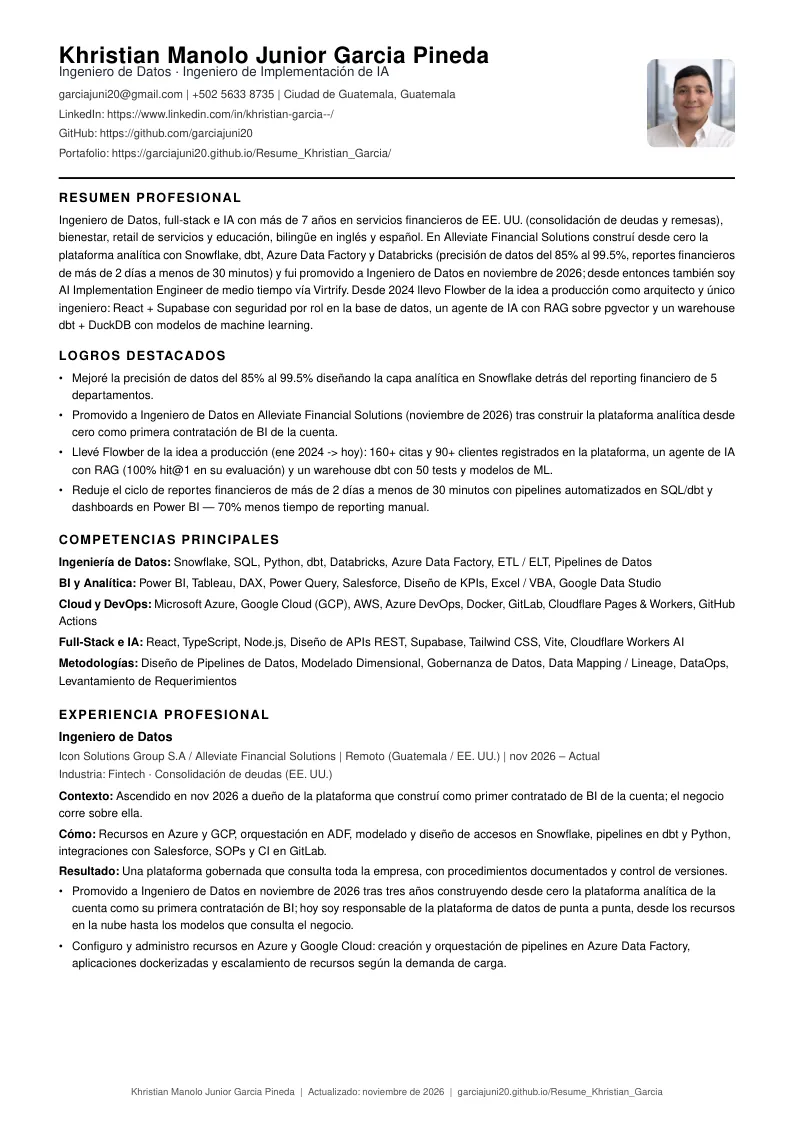
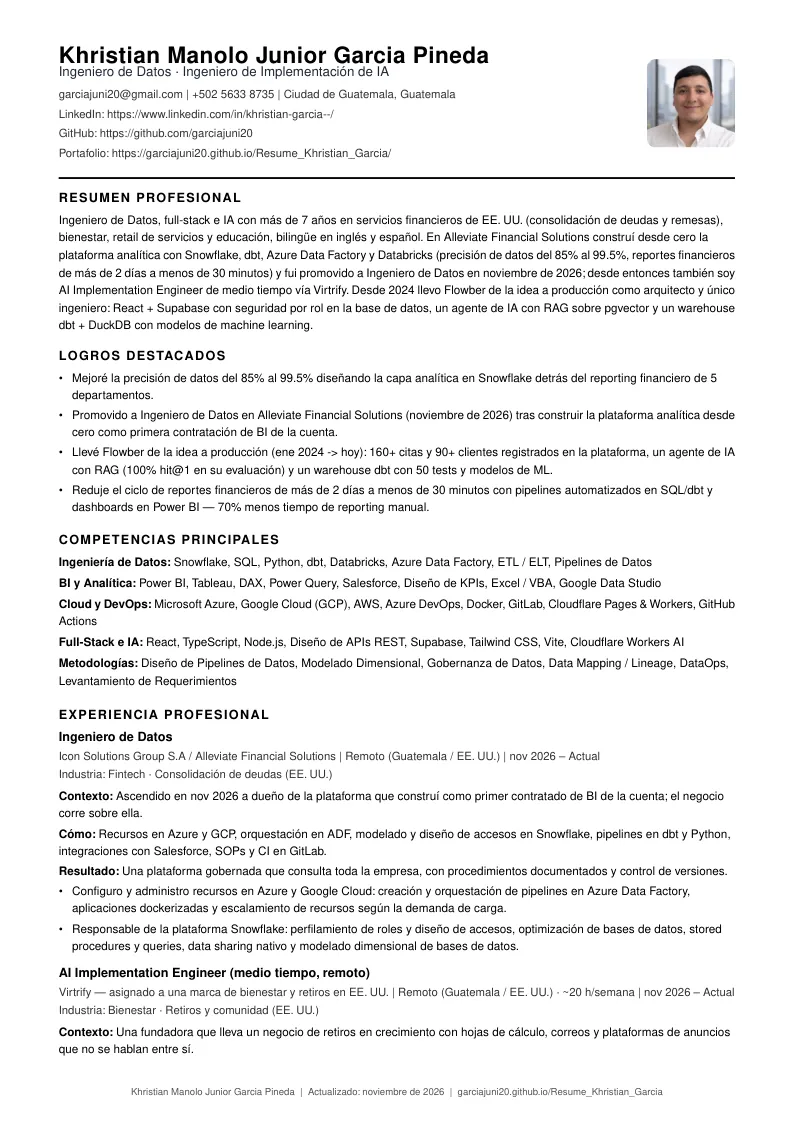
fix(cv): honest "Goal" label for planned work, measured bullets back in the ATS CV
- Approach gets `planned`: the Virtrify role (starts Nov 23, 2026) now shows
  "Goal" instead of "Result" on the site and in both PDFs
- Data Engineer: dropped the bullet that repeated the approach context
- BI Analyst bullets reordered measured-first; the ATS CV shows two of them
  again (8+ core models, 15+ dashboards, 20+ KPIs)
- NOC result line adds the 60% faster incident response already in the data
- Flowber context no longer mentions the personal relationship
- Designed PDF: wider approach label column (CONTEXTO/RESULTADO collided)

Changed region(s): [[0.0605, 0.7792, 0.9068, 0.935]]

diff --git a/src/data/profile-es.ts b/src/data/profile-es.ts
@@ -46,7 +46,6 @@ export const profileES = {
       location: "Remoto (Guatemala / EE. UU.)",
       tags: ["Ingeniería de Datos", "Snowflake", "dbt", "Databricks", "Azure Data Factory", "Azure", "GCP", "Python", "SQL", "Salesforce", "APIs REST", "Docker", "GitLab", "Modelado de Datos"],
       bullets: [
-        "Promovido a Ingeniero de Datos en noviembre de 2026 tras tres años construyendo desde cero la plataforma analítica de la cuenta como su primera contratación de BI; hoy soy responsable de la plataforma de datos de punta a punta, desde los recursos en la nube hasta los modelos que consulta el negocio.",
         "Configuro y administro recursos en Azure y Google Cloud: creación y orquestación de pipelines en Azure Data Factory, aplicaciones dockerizadas y escalamiento de recursos según la demanda de carga.",
         "Responsable de la plataforma Snowflake: perfilamiento de roles y diseño de accesos, optimización de bases de datos, stored procedures y queries, data sharing nativo y modelado dimensional de bases de datos.",
         "Implemento y administro Databricks, y construyo los flujos de datos y pipelines ETL/ELT (dbt, SQL, Python) que mueven la información entre los sistemas fuente, las bases de datos locales y en la nube y el warehouse.",
@@ -60,7 +59,8 @@ export const profileES = {
       approach: {
         context: "Una fundadora que lleva un negocio de retiros en crecimiento con hojas de cálculo, correos y plataformas de anuncios que no se hablan entre sí.",
         how: "Primero auditar el flujo de lead a venta; luego un CRM ligero, automatizaciones en n8n o Make conectadas a Stripe y calendarios, y un manual operativo en lenguaje claro.",
-        result: "Fase de construcción: flujos clave en producción en tres meses, documentados para que la fundadora los opere sin mí.",
+        result: "Fase de construcción (inicia el 23 nov 2026): flujos clave en producción en tres meses, documentados para que la fundadora los opere sin mí.",
+        planned: true,
       },
       industry: "Bienestar · Retiros y comunidad (EE. UU.)",
       company: "Virtrify — asignado a una marca de bienestar y retiros en EE. UU.",
@@ -81,7 +81,7 @@ export const profileES = {
     {
       id: "flowber-freelance",
       approach: {
-        context: "Una barbería con agenda en papel, dobles citas y sin datos; el dueño es un amigo que quería crecer.",
+        context: "Una barbería con agenda en papel, dobles citas y sin datos de su propio negocio.",
         how: "Descubrimiento con el dueño; luego una plataforma serverless React + Supabase con la seguridad en la base de datos, un agente de IA con 20 herramientas y RAG, y un warehouse dbt + DuckDB con ML.",
         result: "160+ citas y 90+ clientes en producción, RAG con 100% hit@1, LCP móvil de 4.8 s a 2.5 s.",
       },
@@ -118,10 +118,10 @@ export const profileES = {
       location: "Remoto (Guatemala / EE. UU.)",
       tags: ["Ingeniería de Datos", "Snowflake", "dbt", "Databricks", "Azure Data Factory", "Python", "SQL", "Salesforce", "Power BI", "Tableau", "Modelado de Datos", "BI"],
       bullets: [
-        "Lideré proyectos de datos de principio a fin — identificando las fuentes de datos adecuadas, asegurando que se importaran y unieran correctamente, y comunicándome directamente con stakeholders de finanzas, operaciones y estrategia en EE. UU. para planificar y entregar cada iniciativa.",
         "Diseñé la capa analítica en Snowflake y PostgreSQL: modelos dimensionales, 8+ modelos core, vistas y stored procedures consultados por los 5 departamentos del negocio — la fuente única de verdad de la empresa, que elevó la precisión de datos del 85% al 99.5%.",
         "Entregué 15+ dashboards interactivos en Power BI y Tableau y definí 20+ KPIs con stakeholders de EE. UU., reemplazando procesos manuales en Excel y reduciendo el ciclo de reportes financieros de más de 2 días a menos de 30 minutos.",
         "Senté las bases del rol de Ingeniero de Datos: pipelines ELT con dbt y SQL sobre Snowflake, orquestación en Azure Data Factory, Databricks e integraciones de Salesforce hacia Snowflake, además de flujos de validación y alertas que eliminaron el 90% de errores recurrentes en reportes.",
+        "Lideré proyectos de datos de principio a fin — identificando las fuentes de datos adecuadas, asegurando que se importaran y unieran correctamente, y comunicándome directamente con stakeholders de finanzas, operaciones y estrategia en EE. UU. para planificar y entregar cada iniciativa.",
         "Diseñé nuevos procesos a partir de los hallazgos del análisis, elaboré Procedimientos Operativos Estándar y documentación de datos, y asesoré a equipos internos en análisis de datos y análisis predictivo.",
         "Primera contratación de BI en Guatemala para la cuenta de Alleviate Financial Solutions — construí la función desde cero hasta convertirla en el stack analítico completo de la empresa; backlog y work items gestionados en Azure DevOps. Promovido a Ingeniero de Datos en noviembre de 2026."
       ]
@@ -165,7 +165,7 @@ export const profileES = {
       approach: {
         context: "NOC 24/7 de infraestructura de remesas internacionales para 5,000+ usuarios concurrentes.",
         how: "Monitoreo con Zabbix, Grafana, New Relic y Splunk; triage de incidentes, escalamiento y runbooks en Windows y Linux.",
-        result: "Tiempo medio de recuperación 25% menor.",
+        result: "Tiempo medio de recuperación 25% menor y respuesta a incidentes 60% más rápida con alertas automatizadas.",
       },
       industry: "Servicios financieros · Remesas internacionales",
       company: "Red Chapina S.A (IDT Guatemala)",

diff --git a/src/data/profile-en.ts b/src/data/profile-en.ts
@@ -46,7 +46,6 @@ export const profileEN = {
       location: "Remote (Guatemala / US)",
       tags: ["Data Engineering", "Snowflake", "dbt", "Databricks", "Azure Data Factory", "Azure", "GCP", "Python", "SQL", "Salesforce", "REST APIs", "Docker", "GitLab", "Data Modeling"],
       bullets: [
-        "Promoted to Data Engineer in November 2026 after three years building the account's analytics platform from zero as its first BI hire; now own the data platform end to end, from cloud resources to the models the business queries.",
         "Set up and manage Azure and Google Cloud resources: pipeline creation and orchestration in Azure Data Factory, dockerized applications, and resource scaling matched to workload demand.",
         "Own the Snowflake platform: role profiling and access design, database, stored-procedure and query optimization, native data sharing, and dimensional database modeling.",
         "Implement and manage Databricks, and build the data flows and ETL/ELT pipelines (dbt, SQL, Python) that move data between source systems, local and cloud databases, and the warehouse.",
@@ -60,7 +59,8 @@ export const profileEN = {
       approach: {
         context: "A solo founder running a growth-stage retreat business on spreadsheets, inboxes and ad platforms that do not talk to each other.",
         how: "Audit the lead-to-sale flow first; then a lean CRM, n8n or Make automations wired to Stripe and calendars, and a plain-language operating manual.",
-        result: "Build phase: core workflows live within three months, documented so the founder runs them without me.",
+        result: "Build phase (starts Nov 23, 2026): core workflows live within three months, documented so the founder runs them without me.",
+        planned: true,
       },
       industry: "Wellness · Retreats & community (US)",
       company: "Virtrify — placed with a US wellness & retreat brand",
@@ -81,7 +81,7 @@ export const profileEN = {
     {
       id: "flowber-freelance",
       approach: {
-        context: "A barbershop with a paper schedule, double bookings and no data; the owner is a friend who wanted to grow.",
+        context: "A barbershop with a paper schedule, double bookings and no data about its own business.",
         how: "Discovery with the owner, then a serverless React + Supabase platform with security in the database, an AI agent with 20 tools and RAG, and a dbt + DuckDB warehouse with ML.",
         result: "160+ appointments and 90+ customers in production, RAG at 100% hit@1, mobile LCP from 4.8 s to 2.5 s.",
       },
@@ -118,10 +118,10 @@ export const profileEN = {
       location: "Remote (Guatemala / US)",
       tags: ["Data Engineering", "Snowflake", "dbt", "Databricks", "Azure Data Factory", "Python", "SQL", "Salesforce", "Power BI", "Tableau", "Data Modeling", "BI"],
       bullets: [
-        "Led data projects from inception to completion — identifying the proper source systems, ensuring they were imported and joined accurately, and communicating directly with US-based finance, operations, and strategy stakeholders to plan and deliver each initiative.",
         "Architected the analytical layer in Snowflake and PostgreSQL: dimensional data models, 8+ core models, views, and stored procedures queried across all 5 business departments — the company's single source of truth, which raised data accuracy from 85% to 99.5%.",
         "Delivered 15+ interactive Power BI and Tableau dashboards and defined 20+ KPIs with US stakeholders, replacing manual Excel processes and cutting the financial reporting cycle from 2+ days to under 30 minutes.",
         "Laid the groundwork for the Data Engineer role: dbt and SQL ELT pipelines on Snowflake, Azure Data Factory orchestration, Databricks, and Salesforce-to-Snowflake integrations, plus validation and alerting workflows that eliminated 90% of recurring reporting errors.",
+        "Led data projects from inception to completion — identifying the proper source systems, ensuring they were imported and joined accurately, and communicating directly with US-based finance, operations, and strategy stakeholders to plan and deliver each initiative.",
         "Designed new processes from analysis findings, authored Standard Operating Procedures and data documentation, and consulted internal teams on data and predictive analysis.",
         "First BI hire in Guatemala for the Alleviate Financial Solutions account — built the function from zero into the company's full analytical stack; backlog and work items tracked in Azure DevOps. Promoted to Data Engineer in November 2026."
       ]
@@ -165,7 +165,7 @@ export const profileEN = {
       approach: {
         context: "24/7 NOC for international remittance infrastructure serving 5,000+ concurrent users.",
         how: "Monitoring with Zabbix, Grafana, New Relic and Splunk; incident triage, escalation and runbooks on Windows and Linux.",
-        result: "Mean time to recovery 25% lower.",
+        result: "Mean time to recovery down 25% and incident response 60% faster with automated alerting.",
       },
       industry: "Financial services · International remittances",
       company: "Red Chapina S.A (IDT Guatemala)",

diff --git a/src/pdf/CVCreative.tsx b/src/pdf/CVCreative.tsx
@@ -56,7 +56,7 @@ const year = (value: string, isEN: boolean) =>
 
 /** Bullets per role on page 2; data is ordered most-relevant-first. */
 const BULLET_CAPS: Record<string, number> = {
-  'alleviate-de': 0, // its first bullet repeats the approach context
+  'alleviate-de': 1,
   'virtrify-ai': 0,
   'alleviate-mid': 0,
   'flowber-freelance': 1,
@@ -181,7 +181,7 @@ const styles = StyleSheet.create({
   // ── Bullets
   bulletRow: { flexDirection: 'row', marginBottom: 3.2 },
   approachRow: { flexDirection: 'row', marginBottom: 1.6 },
-  approachLabel: { width: 44, fontSize: 7.2, fontWeight: 600, color: CORAL_TEXT, textTransform: 'uppercase', letterSpacing: 0.4, marginTop: 0.6 },
+  approachLabel: { width: 56, fontSize: 7.2, fontWeight: 600, color: CORAL_TEXT, textTransform: 'uppercase', letterSpacing: 0.4, marginTop: 0.6 },
   approachText: { fontSize: 8.1, color: TEXT, lineHeight: 1.5, flex: 1 },
   bulletDot: {
     width: 3,
@@ -309,6 +309,7 @@ export function CVCreative({ data, lang }: Props) {
     context: isEN ? 'Context' : 'Contexto',
     how: isEN ? 'How' : 'Cómo',
     result: isEN ? 'Result' : 'Resultado',
+    goal: isEN ? 'Goal' : 'Meta',
     education: isEN ? 'Education' : 'Educación',
     languages: isEN ? 'Languages' : 'Idiomas',
     tagline: isEN
@@ -517,7 +518,7 @@ export function CVCreative({ data, lang }: Props) {
                 {/* Context → how → result: the method, before the supporting bullets */}
                 {exp.approach && (
                   <>
-                    {([['context', t.context], ['how', t.how], ['result', t.result]] as const).map(([key, label]) => (
+                    {([['context', t.context], ['how', t.how], ['result', exp.approach.planned ? t.goal : t.result]] as const).map(([key, label]) => (
                       <View key={key} style={styles.approachRow}>
                         <Text style={styles.approachLabel}>{label}</Text>
                         <Text style={styles.approachText}>{exp.approach?.[key]}</Text>

diff --git a/src/pdf/CVATS.tsx b/src/pdf/CVATS.tsx
@@ -41,7 +41,7 @@ function range(start: string, end: string, isEN: boolean): string {
 const BULLET_CAPS: Record<string, number> = {
   'alleviate-de': 2,
   'virtrify-ai': 0,
-  'alleviate-mid': 0,
+  'alleviate-mid': 2,
   'flowber-freelance': 1,
   'idt-gnoc': 0,
 };
@@ -129,6 +129,7 @@ export function CVATS({ data, lang, photo = true }: Props) {
     context: isEN ? 'Context' : 'Contexto',
     how: isEN ? 'How' : 'Cómo',
     result: isEN ? 'Result' : 'Resultado',
+    goal: isEN ? 'Goal' : 'Meta',
     education: isEN ? 'Education' : 'Educación',
     languages: isEN ? 'Languages' : 'Idiomas',
     dataEng: isEN ? 'Data Engineering' : 'Ingeniería de Datos',
@@ -214,7 +215,7 @@ export function CVATS({ data, lang, photo = true }: Props) {
               <>
                 <Text style={styles.approach}><Text style={styles.approachLabel}>{t.context}: </Text>{ansi(exp.approach.context)}</Text>
                 <Text style={styles.approach}><Text style={styles.approachLabel}>{t.how}: </Text>{ansi(exp.approach.how)}</Text>
-                <Text style={styles.approach}><Text style={styles.approachLabel}>{t.result}: </Text>{ansi(exp.approach.result)}</Text>
+                <Text style={styles.approach}><Text style={styles.approachLabel}>{exp.approach.planned ? t.goal : t.result}: </Text>{ansi(exp.approach.result)}</Text>
               </>
             )}
             {(exp.bullets ?? [])

diff --git a/src/components/ApproachFlow.tsx b/src/components/ApproachFlow.tsx
@@ -2,8 +2,8 @@ import { ArrowRight } from 'lucide-react';
 import type { Approach, Lang } from '../types';
 
 const LABELS = {
-  en: { context: 'Context', how: 'How', result: 'Result' },
-  es: { context: 'Contexto', how: 'Cómo', result: 'Resultado' },
+  en: { context: 'Context', how: 'How', result: 'Result', goal: 'Goal' },
+  es: { context: 'Contexto', how: 'Cómo', result: 'Resultado', goal: 'Meta' },
 } as const;
 
 /**
@@ -12,10 +12,10 @@ const LABELS = {
  */
 export default function ApproachFlow({ approach, lang, compact = false, className = '' }: { approach: Approach; lang: Lang; compact?: boolean; className?: string }) {
   const t = LABELS[lang];
-  const beats: { key: keyof Approach; label: string }[] = [
+  const beats: { key: 'context' | 'how' | 'result'; label: string }[] = [
     { key: 'context', label: t.context },
     { key: 'how', label: t.how },
-    { key: 'result', label: t.result },
+    { key: 'result', label: approach.planned ? t.goal : t.result },
   ];
   return (
     <ol className={`grid gap-3 sm:grid-cols-3 ${compact ? '' : 'n-callout rounded-2xl p-4 sm:p-5'} ${className}`} aria-label={lang === 'en' ? 'Context, how and result' : 'Contexto, cómo y resultado'}>

diff --git a/src/types/index.ts b/src/types/index.ts
@@ -26,6 +26,8 @@ export interface Approach {
   context: string;
   how: string;
   result: string;
+  /** The result is a target for work in progress, not a measured outcome yet */
+  planned?: boolean;
 }
 
 export interface WorkflowStep {
